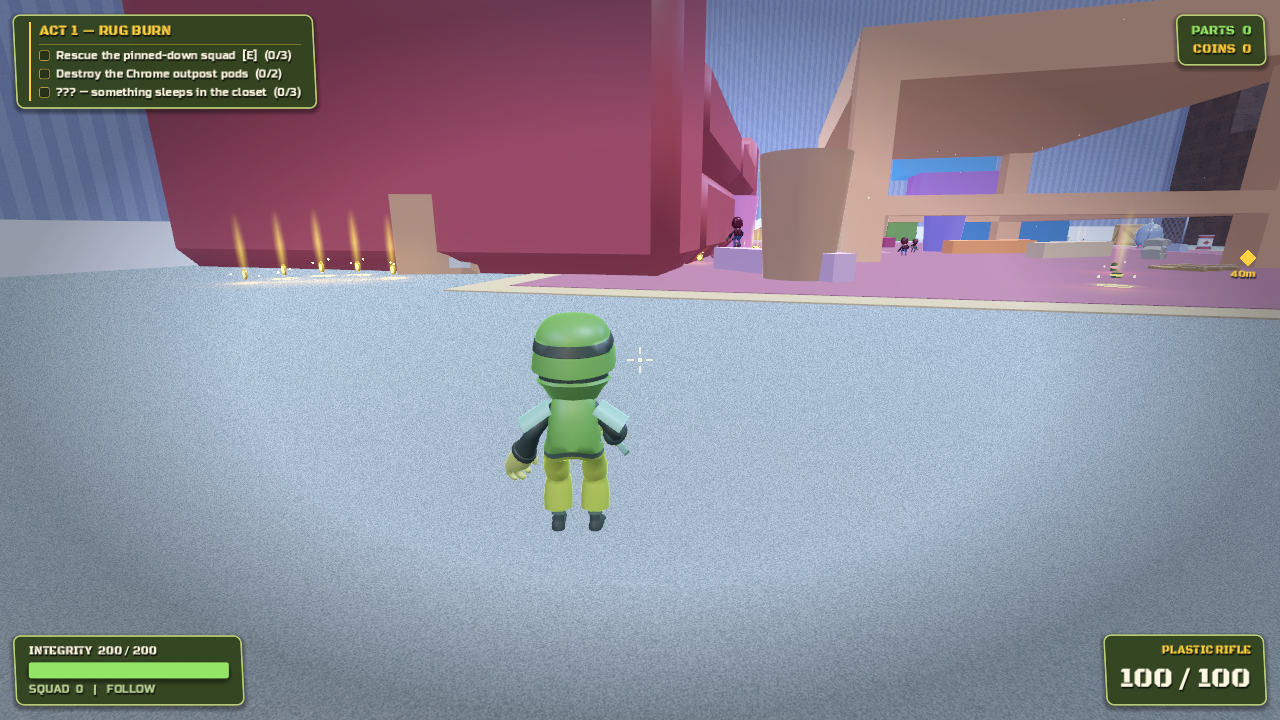
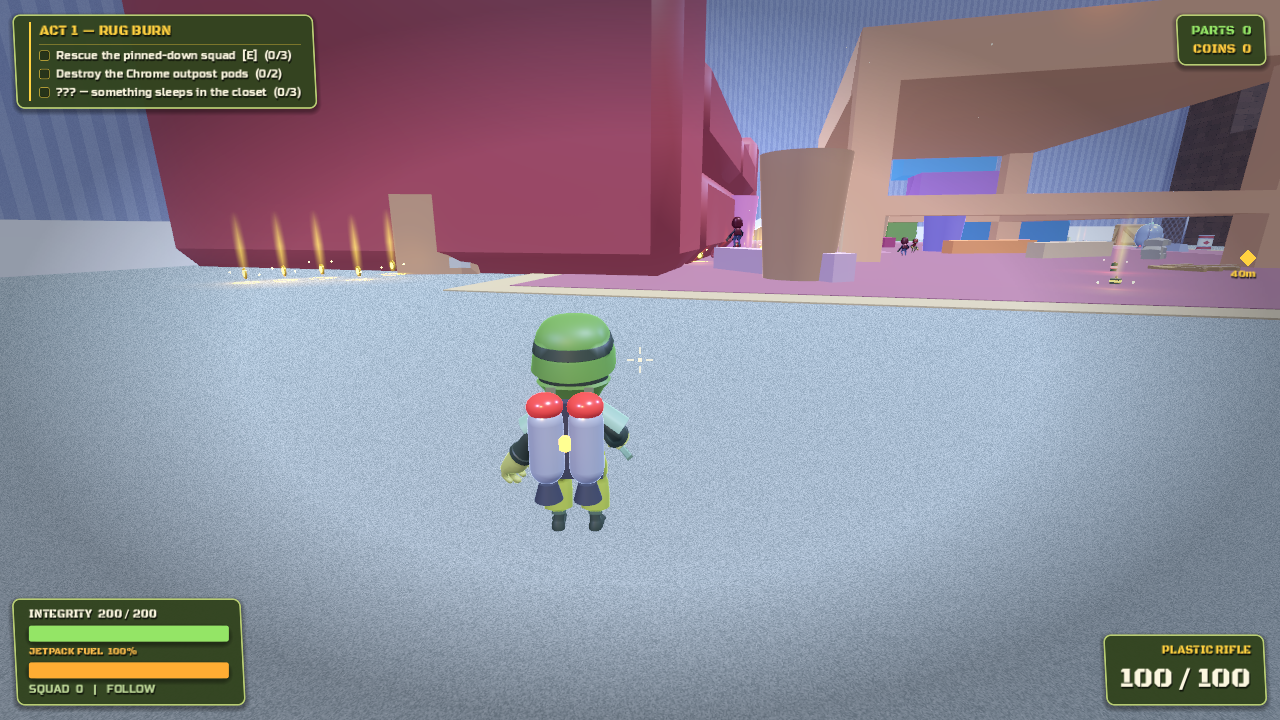
Jetpack: double-tap jump to fly (fuel gauge, flame FX, flying pose), gas-can refuel pickups in every level, sky caches + rooftop patrols on tables, blinding tile-floor glare fixed in Bathroom/Kitchen

diff --git a/web/index.html b/web/index.html
@@ -97,7 +97,7 @@ body {
 
 		<script src="index.js"></script>
 		<script>
-const GODOT_CONFIG = {"args":[],"canvasResizePolicy":2,"ensureCrossOriginIsolationHeaders":true,"executable":"index","experimentalVK":false,"fileSizes":{"index.pck":12797504,"index.wasm":35376909},"focusCanvas":true,"gdextensionLibs":[]};
+const GODOT_CONFIG = {"args":[],"canvasResizePolicy":2,"ensureCrossOriginIsolationHeaders":true,"executable":"index","experimentalVK":false,"fileSizes":{"index.pck":12798928,"index.wasm":35376909},"focusCanvas":true,"gdextensionLibs":[]};
 const GODOT_THREADS_ENABLED = false;
 const engine = new Engine(GODOT_CONFIG);
 